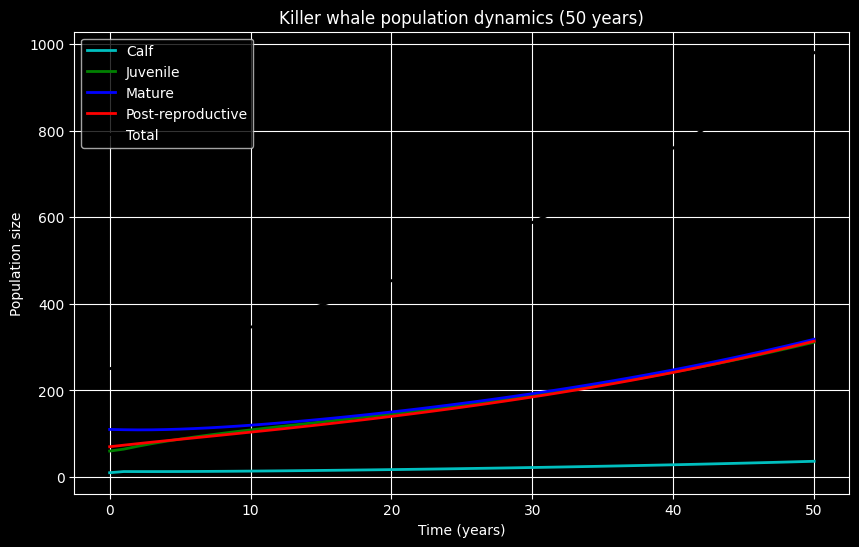
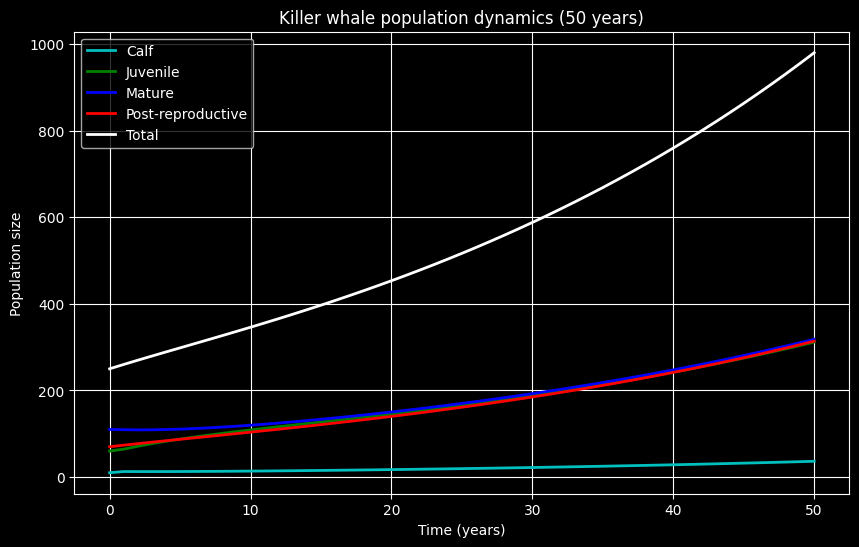
修改

diff --git a/scripts/prebuild_plots.py b/scripts/prebuild_plots.py
@@ -46,6 +46,14 @@ def generate_plot(code, output_path, is_dark):
         # Set style
         if is_dark:
             plt.style.use('dark_background')
+            # Patch code to replace black lines with white lines for dark mode
+            # This is a heuristic to fix explicit 'k' or 'black' usage
+            code = code.replace("'k'", "'w'")\
+                       .replace('"k"', '"w"')\
+                       .replace("'black'", "'white'")\
+                       .replace('"black"', '"white"')\
+                       .replace("'k-'", "'w-'")\
+                       .replace("'k--'", "'w--'")
         else:
             plt.style.use('default')
             # Force white background for light mode

diff --git a/docs/wiki/7.生物学/7.4.生物数学建模/7.4.2.生物模型的数理基础/7.4.2.2.导数与积分/index.md b/docs/wiki/7.生物学/7.4.生物数学建模/7.4.2.生物模型的数理基础/7.4.2.2.导数与积分/index.md
@@ -82,7 +82,7 @@ def cobweb_plot(r, x0, n_iter, ax=None):
 
 # 示例：绘制不同r值的蛛网图
 fig, axes = plt.subplots(2, 2, figsize=(12, 12))
-r_vals = [1.5, 3.2, 3.662117, 4.0]
+r_vals = [0.75, 1.5, 2, 2.5]
 x0 = 0.3
 n_iter = 50
 
@@ -95,18 +95,98 @@ for i, (r, ax) in enumerate(zip(r_vals, axes.flat)):
         ax.legend()
 
 plt.tight_layout()
+plt.subplots_adjust(hspace=0.3)
 plt.show()
 ```
 
-可能需要稍加理解绘图逻辑：在每个迭代步骤，我们绘制从当前 $x_t$ 到下一个 $f(x_t)$ 的垂直线和水平线。这些线段构成了“蛛网”，显示了种群数量如何在每次迭代中沿着逻辑斯谛曲线移动。
+可能需要稍加理解绘图逻辑：在每个迭代步骤，我们绘制从当前 $x_t$ 到下一个 $x_{t+1}$ ，即 $f(x_t)$ 的垂直线，再画水平线到 $f(x)=x$，从该点进行下一次迭代。这些线段构成了“蛛网”，显示了种群数量如何在每次迭代中沿着逻辑斯谛曲线移动。
 
-通过改变 $r$ 的值，我们可以观察到稳定平衡（$r=2.5$）、周期2（$r=3.2$）、周期4（$r=3.5$）以及混沌（$r=4.0$）的蛛网图。在混沌状态下，轨迹似乎随机地填充了函数曲线和对角线之间的区域。
+通过改变 $r$ 的值，我们可以观察到：
+- $r=0.75$（代表$0<r<1$）时，不存在平衡点，种群衰落
+- $r=1.5$（代表$1<r<2$）时，在 $f(x)$ 的上升段有平衡点
+- $r=2.0$ 时，在 $f(x)$ 的顶点有平衡点
+- $r=2.5$（代表$2<r<3$）时，在 $f(x)$ 的下降段有平衡点振荡
+
+```python-plot
+import numpy as np
+import matplotlib.pyplot as plt
+
+def cobweb_plot(r, x0, n_iter, ax=None, n_skip=0):
+    """
+    绘制逻辑斯谛映射的蛛网图。
+    
+    参数:
+        r: 增长率
+        x0: 初始值
+        n_iter: 绘图的迭代次数
+        ax: matplotlib轴对象，若为None则创建新图
+        n_skip: 绘图前忽略的瞬态迭代次数
+    """
+    if ax is None:
+        fig, ax = plt.subplots(figsize=(8, 8))
+    
+    # 绘制函数曲线
+    x = np.linspace(0, 1, 1000)
+    f = r * x * (1 - x)
+    ax.plot(x, f, 'b-', lw=2, label=f'$f(x) = r x (1 - x)$')
+    ax.plot(x, x, 'k--', lw=1, label='$y = x$')
+    
+    # 迭代并绘制蛛网线
+    x_current = x0
+    
+    # 1. 瞬态迭代：不绘图，只更新状态，消除初始 transient
+    for _ in range(n_skip):
+        x_current = r * x_current * (1 - x_current)
+        
+    # 2. 稳态迭代：绘图
+    for i in range(n_iter):
+        y_current = r * x_current * (1 - x_current)
+        # 垂直线
+        ax.plot([x_current, x_current], [x_current, y_current], 'r-', lw=0.5)
+        # 水平线
+        ax.plot([x_current, y_current], [y_current, y_current], 'r-', lw=0.5)
+        x_current = y_current
+    
+    ax.set_xlabel('x', fontsize=14)
+    ax.set_ylabel('f(x)', fontsize=14)
+    ax.set_title(f'Logistic cobweb plot (r = {r}, x0 = {x0})', fontsize=16)
+    ax.legend(fontsize=12)
+    ax.grid(True, alpha=0.3)
+    ax.set_xlim(0, 1)
+    ax.set_ylim(0, 1)
+    return ax
+
+# 示例：绘制不同r值的蛛网图
+fig, axes = plt.subplots(2, 2, figsize=(12, 12))
+r_vals = [3.2, 3.5, 3.662117, 4]
+x0 = 0.3
+n_iter = 100  # 增加绘图轮数以展示完整轨迹
+n_skip = 1000 # 忽略前1000次迭代，确保进入稳定状态
+
+for i, (r, ax) in enumerate(zip(r_vals, axes.flat)):
+    cobweb_plot(r, x0, n_iter, ax, n_skip=n_skip)
+    # 标注平衡点（如果存在）
+    if r > 1:
+        x_eq = 1 - 1/r
+        ax.plot(x_eq, x_eq, 'go', markersize=8, label='Equilibrium point')
+        ax.legend()
+
+plt.tight_layout()
+plt.subplots_adjust(hspace=0.3)
+plt.show()
+```
+
+$r>3$ 时，为了使系统达到稳定震荡状态，我们忽略前1000次迭代，然后记录100次迭代的过程：
+- $r=3.2$（代表$3<r<1+\sqrt{6}$）时，系统出现周期 2 振荡
+- $r=3.5$（代表$r>1+\sqrt{6}$）时，系统出现周期 4 振荡，相比之前呈现周期倍增
+- $r=3.662117$时，系统出现周期 8 振荡，此后振荡周期数改变越来越密集
+- $r=4$时，系统混沌，无法找出振荡现象的发生
 
 ### 2.2.1.3.分岔图与混沌
 
-为了全面了解参数 $r$ 对系统行为的影响，我们可以绘制分岔图，即对于每个 $r$，将长期迭代的 $x_t$ 值绘制出来。以下代码生成逻辑斯谛映射的分岔图：
+为了全面了解参数 $r$ 对系统行为的影响，我们可以绘制分岔图，即对于每个 $r$，将长期迭代后稳定的 $x_t$ 值绘制出来。以下代码生成逻辑斯谛映射的分岔图：
 
-```python
+```python-plot
 import numpy as np
 import matplotlib.pyplot as plt
 
@@ -150,6 +230,68 @@ bifurcation_diagram()
 ```
 
 分岔图清晰地展示了从稳定平衡到倍周期分岔再到混沌的过程。在混沌区域（如 $r \approx 4$），系统对初始条件极其敏感，即著名的“蝴蝶效应”。这正是混沌系统的特征：确定性方程产生看似随机的输出，并且长期预测不可能。
+
+类似地，$sin$ 曲线的混沌行为也可以通过类似的分岔图来展示，其中 $r$ 对应于频率或周期。两张图的形状几乎一模一样：
+```python-plot
+import numpy as np
+import matplotlib.pyplot as plt
+
+def bifurcation_diagram(r_min=0.6, r_max=1.0, n_r=1000, n_transient=500, n_iter=100, x0=0.3):
+    """
+    绘制正弦映射(Sine map)的分岔图。
+    
+    参数:
+        r_min, r_max: r的取值范围
+        n_r: r的采样点数
+        n_transient: 抛弃的瞬态迭代次数
+        n_iter: 记录迭代的次数
+        x0: 初始值（每个r都从x0开始）
+    """
+    r_vals = np.linspace(r_min, r_max, n_r)
+    # 初始化存储数组
+    x_vals = []
+    r_plot = []
+    
+    for r in r_vals:
+        x = x0
+        # 抛弃瞬态
+        for _ in range(n_transient):
+            x = r * np.sin(np.pi * x)
+        # 记录后续迭代
+        for _ in range(n_iter):
+            x = r * np.sin(np.pi * x)
+            x_vals.append(x)
+            r_plot.append(r)
+    
+    # 绘制散点图
+    plt.figure(figsize=(10, 6))
+    plt.scatter(r_plot, x_vals, s=0.01, c='k', alpha=0.5)
+    plt.xlabel('$r$', fontsize=14)
+    plt.ylabel('$x$', fontsize=14)
+    plt.title('Sine Map bifurcation diagram', fontsize=16)
+    plt.grid(True, alpha=0.3)
+    plt.show()
+
+bifurcation_diagram()
+```
+
+这种倍周期现象是如何产生的呢？在一定程度上，我们可以用重整化群来解释：
+
+### 2.2.1.4.重整化群
+
+重整化群理论（Renormalization Group, RG）是一种数学工具，用于研究物理系统中尺度不变性。在混沌系统的背景下，它可以用来理解倍周期分岔是如何发生的。
+
+在逻辑斯谛映射中，当 $r$ 超过某个临界值时（例如3.57），系统开始出现周期倍增。这可以通过重整化群的思想来解释：
+
+1. **尺度变换**：将时间 $t$ 替换为 $\tau = t / \lambda^n$，其中 $\lambda > 1$ 是尺度因子，$n$ 是整数。
+2. **重整化映射**：在新的尺度下，系统动力学由 $x(\tau) \rightarrow f(r, x(\tau))$ 给出。
+3. **倍周期分岔**：随着 $\lambda$ 的增加，系统可能在某些临界点上出现新的稳定周期。例如，当 $r > 3.57$ 时，系统从周期2变为周期4，再进一步变为更高周期的振荡。
+
+可以首先来回答一个问题：为什么是$r>1+\sqrt{6}$时出现周期 4 振荡？
+
+```python-plot
+TODO
+```
 
 ## 2.2.2.连续的种群增长：导数与积分
 
